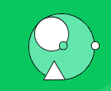
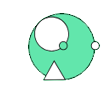
add animation

diff --git a/style.css b/style.css
@@ -110,14 +110,34 @@ a {
     display: flex;
     align-items: center;
     column-gap: 50px;
+
 }
 
 .navlogo img {
     width: 170px;
 }
 
-.nav-icon li:hover {
-    cursor: pointer;
+.nav-icon li {
+    display: inline-block;
+    position: relative;
+}
+
+.nav-icon li::after {
+    content: '';
+    position: absolute;
+    width: 100%;
+    transform: scaleX(0);
+    height: 2px;
+    bottom: 0;
+    left: 0;
+    background-color: hsl(147.09deg 92.79% 43.53%);
+    transform-origin: bottom right;
+    transition: transform 0.25s ease-out;
+}
+
+.nav-icon li:hover::after {
+    transform: scaleX(1);
+    transform-origin: bottom center;
 }
 
 .nav-icon span {
@@ -133,6 +153,23 @@ a {
 .nav-search-icon:hover {
     cursor: pointer;
 }
+
+.nav-icon-right {
+    animation-name: rotate;
+    animation-duration: 3s;
+    animation-iteration-count: infinite;
+}
+
+@keyframes rotate {
+    0% {
+        transform: rotate(0deg);
+    }
+
+    100% {
+        transform: rotate(360deg);
+    }
+}
+
 
 .banner-01 {
     padding-top: 5%;
@@ -160,6 +197,7 @@ a {
     text-transform: uppercase;
     text-shadow: 0px 0px 4px hsl(147.09deg 92.79% 43.53%);
 }
+
 
 .banner-01-content-1 span {
     color: hsl(147.09deg 92.79% 43.53%);
@@ -190,7 +228,6 @@ a {
     padding: 18px 15px 18px 31px;
     background-color: hsl(147.09deg 92.79% 43.53%);
     border: 1px solid hsl(147.09deg 92.79% 43.53%);
-    border-radius: 6px;
     color: white;
     text-transform: uppercase;
     font-weight: 600;
@@ -207,12 +244,20 @@ a {
 
 .cv-img {
     margin-top: 5%;
+    transition: all 0.2s ease-in-out;
+    opacity: 0.5;
 }
+
+.cv-img:hover {
+    opacity: 1;
+}
+
 
 .cv-img img {
     width: 100%;
     transition: 0.5s;
 }
+
 
 .cv-img img:hover {
     transform: scale(1.02);
@@ -224,6 +269,18 @@ a {
     justify-content: space-between;
     align-items: center;
     flex-wrap: wrap;
+    animation: autorotate;
+    animation-timeline: view();
+}
+@keyframes autorotate{
+    from{
+        opacity: 0;
+        transform: translateY(50px) scale(0.6);
+    }
+    to{
+        opacity: 1;
+        transform: translateY(0) scale(1);
+    }
 }
 
 .cv-content {
@@ -350,6 +407,11 @@ a {
     background-color: #b3b3b305;
     margin: 10px;
     padding: 20px;
+    transition: 0.5s;
+}
+
+.skils-1:hover {
+    transform: scale(1.06);
 }
 
 
@@ -476,7 +538,24 @@ a {
     margin: 20px;
     padding: 3vw 2vw;
     width: 392px;
+    transition: .5s, color .10s;
+    -webkit-transition: .5s, color .10s;
+    -moz-transition: .5s, color .10s;
 }
+
+.services-bar:hover {
+    box-shadow: 0 8px 8px 0 #000000, 0 8px 8px 0 #000000;
+    transform: translate(0px, 5px);
+    -webkit-transform: translate(0px, 5px);
+    -moz-transform: translate(0px, 5px);
+}
+
+
+
+/* .services-bar:hover {
+    transform: scale(1.05);
+    background-color: #0000006d;
+} */
 
 .services-bar h1 {
     margin: 0px;
@@ -507,6 +586,16 @@ a {
     margin: 20px;
     padding: 3vw 2vw;
     width: 392px;
+    transition: .5s, color .10s;
+    -webkit-transition: .5s, color .10s;
+    -moz-transition: .5s, color .10s;
+}
+
+.services-bar-mid:hover {
+    box-shadow: 0 8px 8px 0 #000000, 0 8px 8px 0 #000000;
+    transform: translate(0px, 5px);
+    -webkit-transform: translate(0px, 5px);
+    -moz-transform: translate(0px, 5px);
 }
 
 .services-bar-mid h1 {
@@ -525,11 +614,6 @@ a {
     font-size: 1.2rem;
 }
 
-/* .grd {
-    padding: 20px;
-    background-color: #a9a9a9;
-} */
-
 .working-sec {
     position: relative;
     background-image: linear-gradient(to left, #030303db 15%, #07080a 30%, #08090b 35%, #0b0d0e 50%);
@@ -538,7 +622,6 @@ a {
 
 .working-sec>img {
     position: absolute;
-    /* top: 0px; */
     right: 0;
     opacity: 0.3;
     width: 14%;
@@ -601,6 +684,23 @@ a {
     font-optical-sizing: auto;
     margin: 0px;
     line-height: 1.3;
+    overflow: hidden;
+    border-right: .15em solid hsl(147.09deg 92.79% 43.53%);
+    animation:
+        typing 3.5s steps(30, start),
+        blink-caret .5s step-end infinite;
+}
+
+@keyframes blink-caret {
+
+    from,
+    to {
+        border-color: transparent
+    }
+
+    50% {
+        border-color: hsl(147.09deg 92.79% 43.53%)
+    }
 }
 
 .client-content p {
@@ -812,6 +912,23 @@ a {
     position: fixed;
     bottom: 24px;
     right: 27px;
+    animation-name: pulse;
+    animation-duration: 0.8s;
+    animation-iteration-count: infinite;
+}
+
+@keyframes pulse {
+    0% {
+        transform: scale(1);
+    }
+
+    50% {
+        transform: scale(1.5);
+    }
+
+    100% {
+        transform: scale(1);
+    }
 }
 
 .search-container {
@@ -832,6 +949,49 @@ a {
     outline: none;
 }
 
+
+.snip1562 {
+    cursor: pointer;
+    display: inline-block;
+    position: relative;
+}
+
+.snip1562:before,
+.snip1562:after {
+    border-color: transparent;
+    -webkit-transition: all 0.25s;
+    transition: all 0.25s;
+    border-style: solid;
+    border-width: 0;
+    content: "";
+    height: 1px;
+    position: absolute;
+    width: 1px;
+}
+
+.snip1562:before {
+    border-left-width: 2px;
+    border-top-width: 2px;
+    left: -5px;
+    top: -5px;
+}
+
+.snip1562:after {
+    border-bottom-width: 2px;
+    border-right-width: 2px;
+    bottom: -5px;
+    right: -5px;
+}
+
+
+.snip1562:hover:before,
+.snip1562.hover:before,
+.snip1562:hover:after,
+.snip1562.hover:after {
+    border-color: #fff;
+    height: 101%;
+    width: 101%;
+}
 
 
 

diff --git a/index.html b/index.html
@@ -107,7 +107,7 @@
                 <div class="sub-heading">
                     <p>Together we the people achieve more than any sngle person could ever do alone </p>
                 </div>
-                <div class="by-btn">
+                <div class="by-btn snip1562">
                     <button><a href="https://wa.me/03062426730">Getting started</a><i
                             class="ri-arrow-right-s-line"></i></button>
                 </div>
@@ -128,7 +128,7 @@
                     NY for HR solutions. As an advanced virtual HR company, they are offering online HR systems that can
                     be customized depending on business needs.
                 </p>
-                <button><a href="/accests/my cv.pdf"
+                <button class="snip1562"><a href="/accests/my cv.pdf"
                         target="_blank">Download cv</a> <i class="ri-arrow-right-s-line"></i></button>
             </div>
         </div>
@@ -454,6 +454,8 @@
 
 
 
+    <script src="https://cdnjs.cloudflare.com/ajax/libs/gsap/1.19.1/TweenMax.min.js"></script> 
+    <script type="text/javascript" src="cssanimation-gsap.js"></script>
     <script src="/app.js"></script>
     <script src="https://cdn.jsdelivr.net/npm/bootstrap@5.3.3/dist/js/bootstrap.bundle.min.js"
         integrity="sha384-YvpcrYf0tY3lHB60NNkmXc5s9fDVZLESaAA55NDzOxhy9GkcIdslK1eN7N6jIeHz"

diff --git a/app.js b/app.js
@@ -63,3 +63,12 @@ function toggleSearch() {
         searchBar.focus(); // Automatically focus on the search bar
     }
 }
+
+$(".hover").mouseleave(
+    function () {
+      $(this).removeClass("hover");
+    }
+  );
+
+
+  
